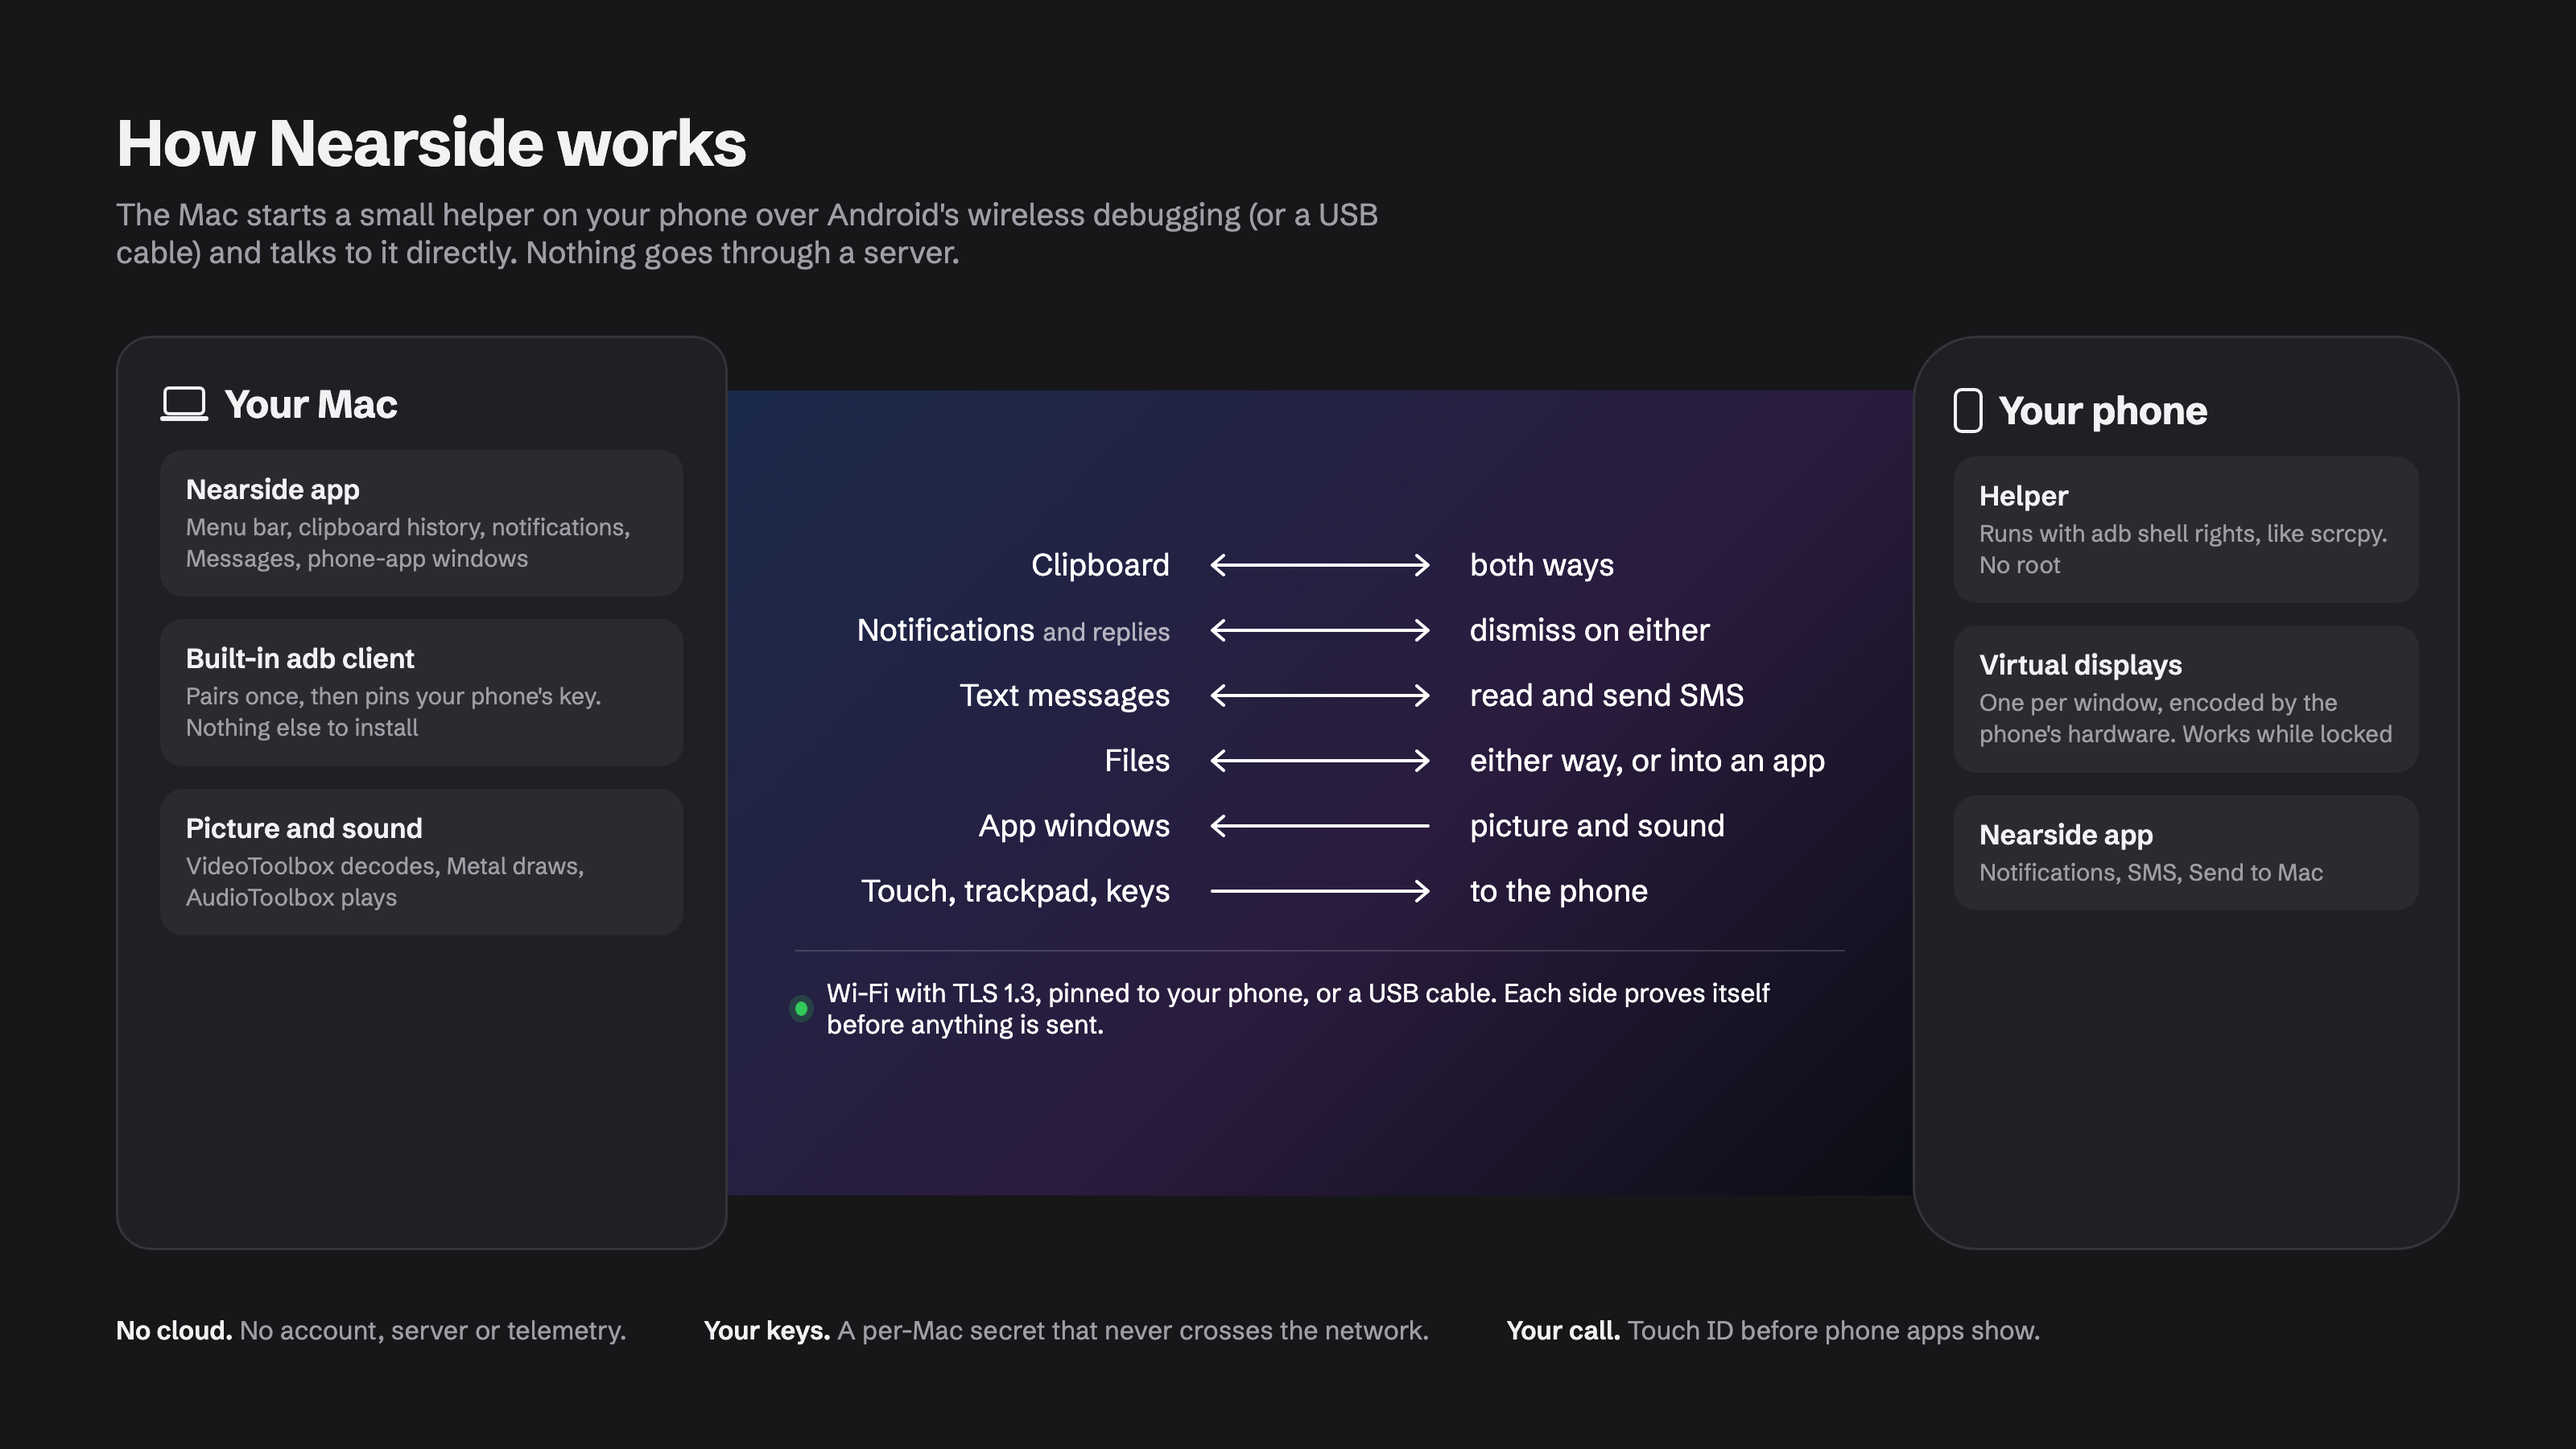
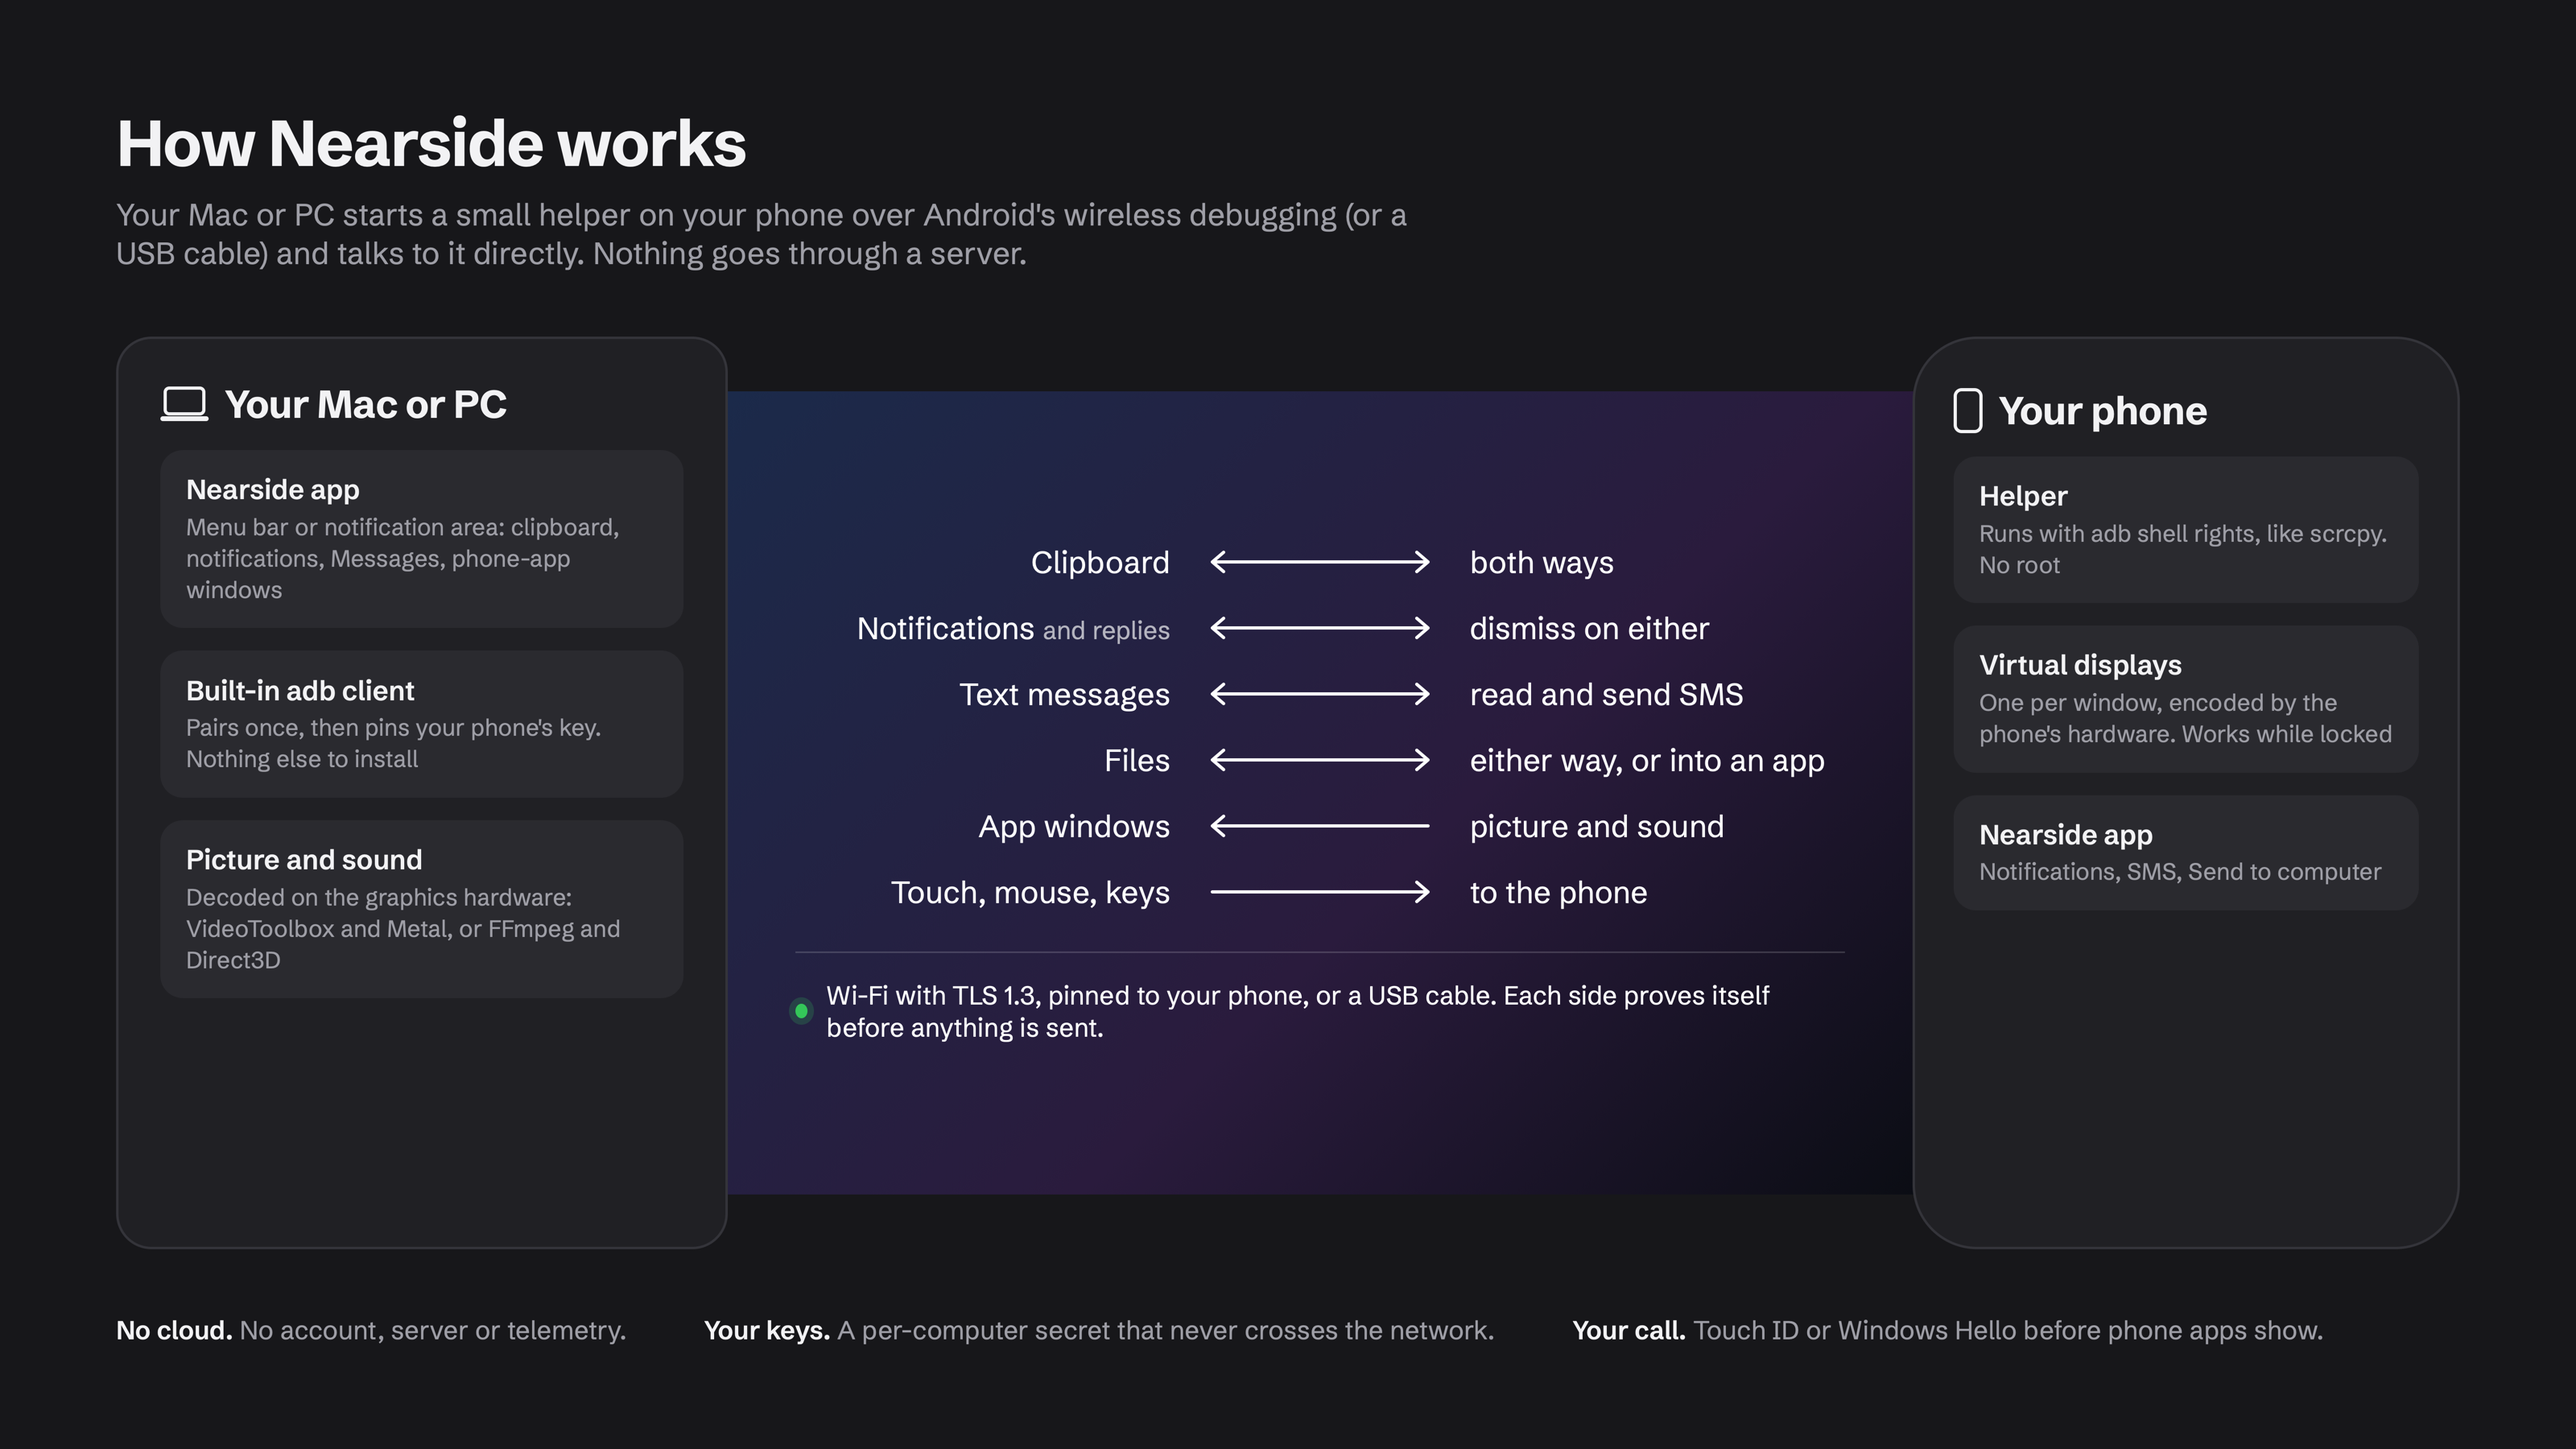
Version 0.3.0; the How it works picture for the Mac or PC

diff --git a/docs/assets/src/architecture.html b/docs/assets/src/architecture.html
@@ -62,18 +62,18 @@
 <body>
   <header>
     <h1>How Nearside works</h1>
-    <p>The Mac starts a small helper on your phone over Android's wireless debugging (or a USB cable) and talks to it directly. Nothing goes through a server.</p>
+    <p>Your Mac or PC starts a small helper on your phone over Android's wireless debugging (or a USB cable) and talks to it directly. Nothing goes through a server.</p>
   </header>
 
   <div class="row">
     <section class="device mac">
       <h2>
         <svg width="30" height="24" viewBox="0 0 30 24" aria-hidden="true"><rect x="3" y="2" width="24" height="16" rx="2.5" fill="none" stroke="currentColor" stroke-width="2"/><rect x="0" y="19.5" width="30" height="3" rx="1.5" fill="currentColor"/></svg>
-        Your Mac
+        Your Mac or PC
       </h2>
-      <div class="part"><b>Nearside app</b><span>Menu bar, clipboard history, notifications, Messages, phone-app windows</span></div>
+      <div class="part"><b>Nearside app</b><span>Menu bar or notification area: clipboard, notifications, Messages, phone-app windows</span></div>
       <div class="part"><b>Built-in adb client</b><span>Pairs once, then pins your phone's key. Nothing else to install</span></div>
-      <div class="part"><b>Picture and sound</b><span>VideoToolbox decodes, Metal draws, AudioToolbox plays</span></div>
+      <div class="part"><b>Picture and sound</b><span>Decoded on the graphics hardware: VideoToolbox and Metal, or FFmpeg and Direct3D</span></div>
     </section>
 
     <section class="between" aria-label="What travels between the devices">
@@ -82,7 +82,7 @@
       <div class="lane"><span class="l">Text messages</span><svg class="arrow" viewBox="0 0 150 14"><path d="M8 7h134M8 7l7-6M8 7l7 6M142 7l-7-6M142 7l-7 6" stroke="#fff" stroke-width="2" fill="none" stroke-linecap="round"/></svg><span class="r">read and send SMS</span></div>
       <div class="lane"><span class="l">Files</span><svg class="arrow" viewBox="0 0 150 14"><path d="M8 7h134M8 7l7-6M8 7l7 6M142 7l-7-6M142 7l-7 6" stroke="#fff" stroke-width="2" fill="none" stroke-linecap="round"/></svg><span class="r">either way, or into an app</span></div>
       <div class="lane"><span class="l">App windows</span><svg class="arrow" viewBox="0 0 150 14"><path d="M8 7h134M8 7l7-6M8 7l7 6" stroke="#fff" stroke-width="2" fill="none" stroke-linecap="round"/></svg><span class="r">picture and sound</span></div>
-      <div class="lane"><span class="l">Touch, trackpad, keys</span><svg class="arrow" viewBox="0 0 150 14"><path d="M8 7h134M142 7l-7-6M142 7l-7 6" stroke="#fff" stroke-width="2" fill="none" stroke-linecap="round"/></svg><span class="r">to the phone</span></div>
+      <div class="lane"><span class="l">Touch, mouse, keys</span><svg class="arrow" viewBox="0 0 150 14"><path d="M8 7h134M142 7l-7-6M142 7l-7 6" stroke="#fff" stroke-width="2" fill="none" stroke-linecap="round"/></svg><span class="r">to the phone</span></div>
       <div class="link"><span class="dot"></span>Wi-Fi with TLS 1.3, pinned to your phone, or a USB cable. Each side proves itself before anything is sent.</div>
     </section>
 
@@ -93,14 +93,14 @@
       </h2>
       <div class="part"><b>Helper</b><span>Runs with adb shell rights, like scrcpy. No root</span></div>
       <div class="part"><b>Virtual displays</b><span>One per window, encoded by the phone's hardware. Works while locked</span></div>
-      <div class="part"><b>Nearside app</b><span>Notifications, SMS, Send to Mac</span></div>
+      <div class="part"><b>Nearside app</b><span>Notifications, SMS, Send to computer</span></div>
     </section>
   </div>
 
   <footer>
     <span><b>No cloud.</b> No account, server or telemetry.</span>
-    <span><b>Your keys.</b> A per-Mac secret that never crosses the network.</span>
-    <span><b>Your call.</b> Touch ID before phone apps show.</span>
+    <span><b>Your keys.</b> A per-computer secret that never crosses the network.</span>
+    <span><b>Your call.</b> Touch ID or Windows Hello before phone apps show.</span>
   </footer>
 
   <script>if (location.hash === "#dark") document.documentElement.classList.add("dark");</script>

diff --git a/site/index.html b/site/index.html
@@ -156,7 +156,7 @@
       <p class="intro">Nearside's Mac or Windows app starts a small helper on your phone over Android's wireless debugging, the technique scrcpy and Shizuku use. No root, and no server in the middle.</p>
       <picture>
         <source media="(prefers-color-scheme: dark)" srcset="images/architecture-dark.png">
-        <img src="images/architecture-light.png" alt="How Nearside works: the Mac app with its own adb client talks to a helper and the Nearside app on the phone, over Wi-Fi with TLS 1.3 or a USB cable." loading="lazy">
+        <img src="images/architecture-light.png" alt="How Nearside works: the Mac or PC app with its own adb client talks to a helper and the Nearside app on the phone, over Wi-Fi with TLS 1.3 or a USB cable." loading="lazy">
       </picture>
       <div class="promises">
         <p><b>Pinned to your phone.</b> Pairing authenticates your phone's key, and every connection checks it. A look-alike device is refused.</p>

diff --git a/README.md b/README.md
@@ -173,7 +173,7 @@ On Windows the phone window's toolbar has Home, Recents, Notifications and the s
 
 <picture>
   <source media="(prefers-color-scheme: dark)" srcset="docs/images/architecture-dark.png">
-  <img src="docs/images/architecture-light.png" alt="How Nearside works: the Mac app with its built-in adb client talks over Wi-Fi with TLS 1.3 or a USB cable to a helper and the Nearside app on the phone. Clipboard, notifications, text messages and files travel both ways; app windows send picture and sound to the Mac and receive touch, trackpad and keys from it.">
+  <img src="docs/images/architecture-light.png" alt="How Nearside works: the Mac or PC app with its built-in adb client talks over Wi-Fi with TLS 1.3 or a USB cable to a helper and the Nearside app on the phone. Clipboard, notifications, text messages and files travel both ways; app windows send picture and sound to the computer and receive touch, mouse and keys from it.">
 </picture>
 
 Android doesn't let ordinary apps read the clipboard in the background, or show other apps'
